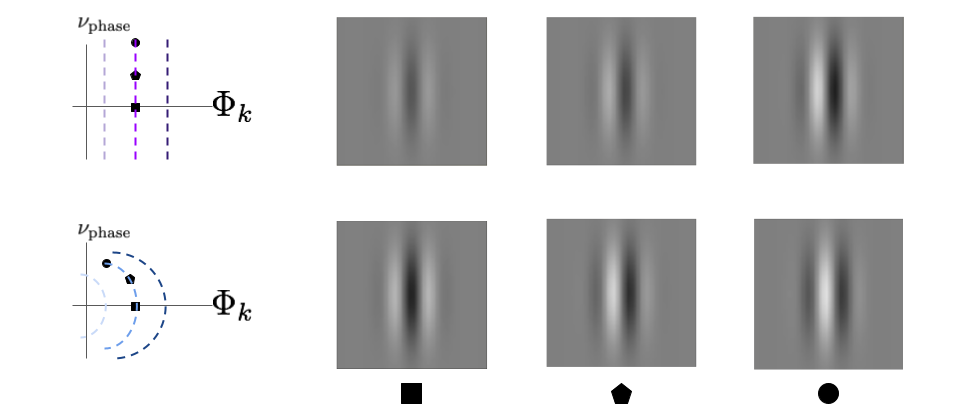
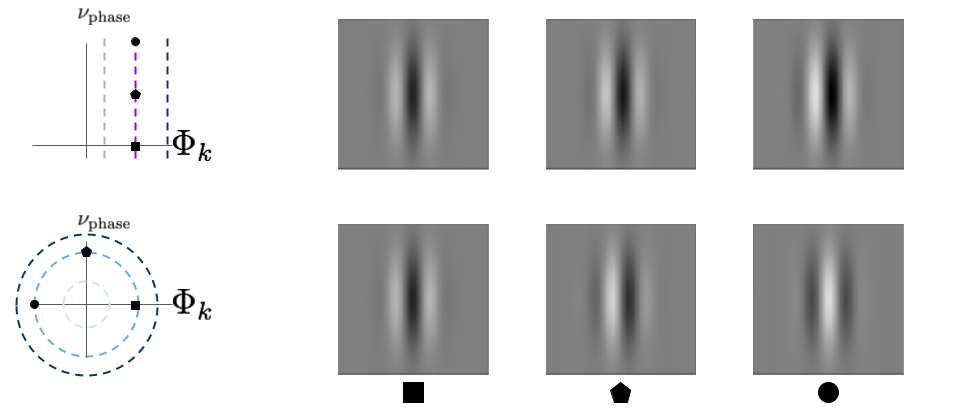
rewording contour perturbation experiment, updates some figures

diff --git a/_posts/2021-05-18-neuron-response-contours.md b/_posts/2021-05-18-neuron-response-contours.md
@@ -8,7 +8,7 @@ tags:
   - deep net interpretability
 ---
 
-Scientists have long summarized neurons by describing the relationship between their inputs and outputs. Here I describe a technique that allows us to go beyond previous approaches to succinctly describe important and complex neural behavior.
+Scientists have long summarized neurons in terms of the relationship between their inputs and outputs. Here I describe a technique that allows us to go beyond previous approaches to succinctly describe important and complex neural behavior.
 ------
 
 ![curvatures]
@@ -89,14 +89,14 @@ The next figure illustrates how each point in the grid can be reshaped to be vis
 A few of the points around the edges are displayed as images.
 Notice how these images have some structure to them and are systematic in how they look.
 For any given cross section, all of the images are [coplanar](https://en.wikipedia.org/wiki/coplanarity), which is to say that they can all be described as a [linear combination](https://en.wikipedia.org/wiki/Linear_combination) of two exemplar images.
+This idea of linearity is also illustrated in the figure below in that all of the corner images can be constructed by adding two of the center images.
 
 
 ![points-to-images]
 {: style="text-align: center; font-size:11pt"}
 
 **fig. 3**
-We discretize an image cross section into a two-dimensional grid and collect the points to define a dataset
-of images.
+We discretize a cross section of the input space into a two-dimensional grid and collect the points to define a dataset of images.
 The black arrows are perpendicular vectors that define the cross section.
 The origin for all of the cross sections we consider here will be a zero-contrast image, in other words a uniform gray image.
 {: style="text-align: center; font-size:11pt"}
@@ -104,13 +104,13 @@ The origin for all of the cross sections we consider here will be a zero-contras
 In addition to constraining our input space to be coplanar, we are also going to constrain our output space to simplify the analysis.
 Specifically, we are going to look at the curvature of the _iso-response contours_ of the neuron.
 These contours are connected points that all produce the same (hense "iso") output from the neuron and they all exist on the cross section.
-To see the iso-response contours, we will compute the neuron’s output (i.e. _activity_) for all of the cross section images and then recolor the points according to the activity.
+To see the iso-response contours, we will compute the neuron’s _activity_ (i.e. its output) for all of the cross section images and then recolor the points according to the activity.
 
 As I said before, we want to pick a cross section that is relevant for our neuron.
 To do this we define one of the two cross section axes as the neuron's _maximally exciting image (MEI)_, which is an image that was optimized to look like the feature in the world that is most interesting to the neuron.
 There are a lot of ways to find a neuron's MEI in neuroscience and in artificial neural network research, but for now let's leave aside how the image was produced and just assume it is representative of what the neuron likes most.
-Going forward, we will represent the MEI with the symbol $$\Phi_{k}$$, where the $$k$$ tells us it is the MEI for the $$k$$th neuron in our assembly.
-For now the other axis can be any random perpendicular (i.e. _[orthogonal](https://en.wikipedia.org/wiki/Orthogonality)_) image, but we will choose more specific orthogonal images later.
+Going forward, we will represent the MEI with the symbol [$$\Phi_{k}$$](https://en.wikipedia.org/wiki/Phi), where the $$k$$ tells us it is the MEI for the $$k$$th neuron in our assembly.
+For now the other axis can be any random _[orthogonal](https://en.wikipedia.org/wiki/Orthogonality)_ (i.e. perpendicular) image, but we will choose more specific orthogonal images later.
 
 ![choosing-the-right-plane]
 {: style="text-align: center; font-size:11pt"}
@@ -130,7 +130,7 @@ Here's what it would look like for a simple linear neuron:
 **fig. 5**
 The iso-response contours for a linear neuron are straight and orthogonal to the neuron's MEI, $$\Phi_{k}$$.
 In this image, $$\Phi_{j}$$ indicates the MEI for some other neuron and $$\nu$$ indicates the chosen orthogonal axis.
-The iso-response contours will be straight regardless of the chosen direction for $$\nu$$.
+For a linear neuron, the iso-response contours will be straight regardless of the chosen direction for $$\nu$$.
 The color indicates the output activity of neuron $$k$$, where blue is low and yellow is high.
 {: style="text-align: center; font-size:11pt"}
 
@@ -155,7 +155,7 @@ between the lines.
 This is true for all types of pointwise nonlinearities, which we demonstrate by also including a sigmoid nonlinearity.
 
 ### Straight vs. curved contours
-Biological neurons tend to have more complicated iso-response contours, which are sometimes also found in more sophisticated artificial neural network architectures.
+Biological neurons tend to have more complicated iso-response contours, as well as some more sophisticated artificial neural network neurons.
 Specifically, the contours tend to have _curvature_ in the sense that they bend towards or away from the origin.
 Since linear neurons produce straight contours, it is reasonable to think about curvature as indicating a deviation from linearity -- more curvy contours indicate less linear functions.
 Additionally, let's differentiate between outward curvature, which means it's bending away from the origin, and inward curvature, which means it is bending towards the origin.
@@ -192,7 +192,7 @@ To start we will look at the "up" perturbation condition for straight and outwar
 **fig. 8**
 The "up" perturbation direction reveals an important difference between neurons with straight contours and neurons with outward curved contours.
 The orthogonal, $$\nu_{\text{noise}}$$ axis is chosen to be a noisy image.
-The line plot on the right indicates the response of the neuron (vertical axis) for each image type (horizontal axis).
+The line plots in the middle indicate the response of the neuron (vertical axis) for each image type (horizontal axis).
 Each perturbation point is displayed on the right.
 {: style="text-align: center; font-size:11pt"}
 
@@ -239,8 +239,9 @@ This means that the bottom cell has phase _invariance_, while the top cell does 
 
 **fig. 9**
 The "contour" perturbation direction reveals invariance for neurons with inward-bending iso-response contours.
-Perturbing along the top neuron's iso-response contour will make the image look less like $$\Phi_{k}$$ and more like $$\nu_{\text{phase}}$$, but not by actually shifting the phase of the edge.
+Perturbing along the top neuron's iso-response contour will make the image look less like a linear combination of $$\Phi_{k}$$ and $$\nu_{\text{phase}}$$ instead of a phase shift.
 However, perturbing along the bottom neuron's contour results in a phase shift.
+This is easier to see the farther along the contour we perturb, so we used larger perturbations than those shown in figure 7.
 {: style="text-align: center; font-size:11pt"}
 
 ## Wrap up
